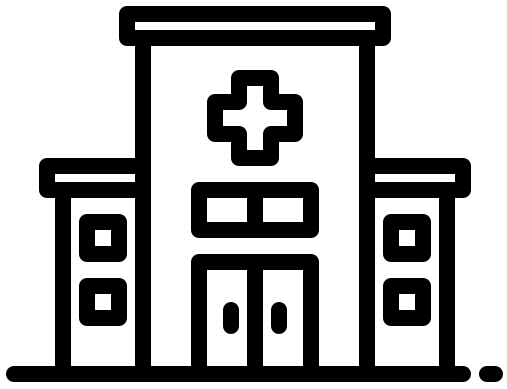
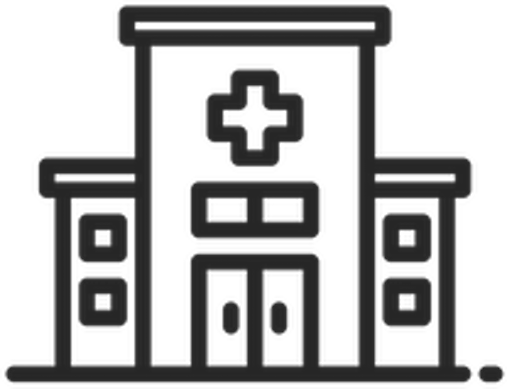
메인창 block1 제외 프앤 마무리, schedule창 블록들 구성 및 blck2 디자인

diff --git a/src/components/Home.css b/src/components/Home.css
@@ -1,11 +1,11 @@
 
-h1 {
+#homeh1 {
     text-align: left;
     margin-left: 120px;
     margin-top: 10px;
 }
 
-main {
+.homemain {
     display: flex;
     flex-direction: row;
     //column-count: 4;
@@ -31,7 +31,7 @@ main {
 .para3 {
 }
 
-section {
+.block1, .block2, .block3, .block4 {
     box-shadow: 5px 6px 6px rgba(0, 0, 0, 0.1);
     border-radius: 25px;
     width: 350px;
@@ -46,7 +46,7 @@ section:hover {
 
 
 .block1 {
-    background-color: #F2F9F6;
+    background-color: #D9F4E7;
     height:95%;
 }
 #usrImg {
@@ -57,44 +57,59 @@ section:hover {
 
 
 .block2 {
-    background-color: purple;
+    background-image: url('greentopurple.jpg');
+    background-size: cover;
     height: 46%;
     margin-bottom: 20px;
 }
-
+#block2h {
+    text-align: left;
+    font-size: 66px;
+    padding: 25px 20px 0px;
+    margin: 0px;
+    //color: #F7F7F7;
+    color: #2E2E2E;
+    font-family: serif;
+    font-weight: 800;
+}
 
 
 .block3 {
-    background: radial-gradient(#6E7270, #AEB4B2);
+    //background: radial-gradient(#AEB4B2, #C89AE4); 
+    background-image: linear-gradient(145deg, #D794FF, #E1E1E1, #8FFFBD);
     height: 46%;
 }
 #b3txt {
     padding: 20px 0px 0px;
     font-size: 40px;
-    font-weight: 600;
+    font-weight: 700;
     color: #303332;
     font-family: cursive;
 }
 #hosPic {
     margin-top: 5px;
+    opacity: 0.85;
 }
 
 
 
 .block4 {
-    background-color: white;
+    background-color: #D9F4E7;
     height: 95%;
     border: 0.5px solid #E1E1E1;
 }
-h2 {
+
+#homeh2 {
     font-size: 30px;
     text-align: left;
     padding: 25px 25px 5px;
     margin-top: 0px;
 }
-fieldset {
+
+.homefs {
     height: 320px;
-    font-size:25px;
+    font-size:24px;
+    font-weight: 500;
     display: flex;
     flex-direction: column;
     overflow: auto;
@@ -104,15 +119,15 @@ fieldset {
 #option {
     margin: 0px 0px;
     width: 90%;
-    padding: 0px 5px 30px;
+    padding: 0px 5px 36px;
     text-align:left;
     //background-color: purple;
 }
 
 input[type='checkbox'] {
-    width: 17px;
-    height: 17px;
-    accent-color: lightgreen;
+    width: 20px;
+    height: 20px;
+    accent-color: #70C3A7;
     margin-right: 15px;
 }
 
@@ -132,9 +147,10 @@ input[type='checkbox'] {
     height: 45px;
     width: 160px;
     border-radius: 15px;
-    border-width: 0px;
+    border-width: 0.1px;
     border-color: grey;
     background-color: #70C3A7;
     font-size: 20px;
+    font-weight: 700;
     margin: 15px 0px 5px;
 }

diff --git a/src/components/Schedule.css b/src/components/Schedule.css
@@ -1,0 +1,95 @@
+#schh1 {
+    text-align: left;
+    margin-left: 120px;
+    margin-top: 10px;
+}
+
+.schmain {
+    display: flex;
+    flex-direction: row;
+    //column-count: 3;
+    height: 640px;
+}
+.par0 {
+    width: 120px;
+}
+.par1, .par2 {
+    padding-top: 10px;
+}
+.par1 {
+    width: 65%;
+}
+.par2 {
+    width: 35%;
+    margin-right: 50px;
+}
+.blck1, .blck2 {
+    box-shadow: 5px 6px 6px rgba(0, 0, 0, 0.1);
+    border-radius: 25px;
+    width: 90%;
+    height: 90%;
+    margin: 0px auto; /*para 내에서 중앙정렬*/
+    transition: all 0.3s ease-out;
+    background-color: #D9F4E7;
+}
+
+.blck2 {
+    position: relative;
+    background-color: #D9F4E7;
+}
+
+.blck2::before {
+    content: "";
+    position: absolute;
+    top: -18px;
+    left: -10px;
+    right: 0px;
+    bottom: 0px;
+    opacity: 0.1;
+    background-image: url('hospital2_icon.png');
+    background-repeat: repeat;
+    border-radius: 35px;
+}
+
+
+#schh2 {
+    font-size: 30px;
+    text-align: center;
+    padding: 25px 25px 0px;
+    margin-top: 0px;
+    position: relative;
+}
+
+.schsec1 {
+    height: 50%;
+    width: 80%;
+    margin: -5px auto;
+    margin-bottom: 20px;
+    background-color: #F3FFF9;
+    border-radius: 25px;
+    border-width: 0.5px;
+    position: relative
+}
+
+.schsec2 {
+    height: 13%;
+    width: 80%;
+    margin: 0px auto;
+    background-color: #F3FFF9;
+    border-radius: 25px;
+    border-width: 0.5px;
+    position: relative
+}
+
+#schsavebtn { 
+    height: 45px;
+    width: 160px;
+    border-radius: 17px;
+    border-width: 0.1px;
+    border-color: grey;
+    background-color: #70C3A7;
+    font-size: 20px;
+    font-weight: 700;
+    margin: 15px 0px 5px;
+    position: relative
+}

diff --git a/src/components/Home.js b/src/components/Home.js
@@ -5,9 +5,9 @@ const Home = () => {
   return (
     <>
         <div>
-          <h1>00님, 어서오세요.</h1>
+          <h1 id='homeh1'>00님, 어서오세요.</h1>
         </div>
-        <main>
+        <main className='homemain'>
             <div className='para0'>
                 <p> </p>
             </div>
@@ -20,7 +20,7 @@ const Home = () => {
             </div>
             <div className='para2'>
                 <section className='block2'>
-                    <p>news</p>
+                    <h3 id='block2h'>Health<br/>Care<br/>News +</h3>
                 </section>
                 <section className='block3'>
                     <p id='b3txt'>병원 찾기<img id='hosPic' src='images/hospital_icon.png' alt='pic of hospital icon'/></p>
@@ -28,8 +28,8 @@ const Home = () => {
             </div>
             <div className='para3'>
                 <section className='block4'>
-                    <h2>오늘 어떤 약💊을<br/>복용하셨습니까?</h2>
-                    <fieldset>
+                    <h2 id='homeh2'>오늘 어떤 약💊을<br/>복용하셨습니까?</h2>
+                    <fieldset className='homefs'>
                         <div id='option'>
                             <input type='checkbox' id='med1' name='복용약 종류' value='1번 약(입력되는 값?)' />
                             <label for='med1'>약1</label>

diff --git a/src/components/Schedule.js b/src/components/Schedule.js
@@ -1,11 +1,39 @@
 import React from 'react';
+import './Schedule.css'
 
 const Schedule = () => {
   return (
-    <div>
-      <h1>Schedule</h1>
-      <p>진단 기록 및 약 복용 기록</p>
-    </div>
+    <>
+      <div>
+        <h1 id='schh1'>Schedule 진단 기록 및 약 복용 기록</h1>
+      </div>
+      <main className='schmain'>
+        <div className='par0'>
+          <p> </p>
+        </div>
+        <div className='par1'>
+          <section className='blck1'>
+            <h2 id='schh2'> </h2>
+            <img src='images/sampleimage_cal.avif' alt='달력샘플이미지'/>
+          </section>
+        </div>
+        <div className='par2'>
+          <section className='blck2'>
+            <h2 id='schh2'>진료 기록</h2>
+            <fieldset className='schsec1'>
+              <label>
+                병원명
+              </label>
+            </fieldset>
+            <fieldset className='schsec2'>
+              <label></label>
+            </fieldset>
+            <button id="schsavebtn">저장하기</button>
+
+          </section>
+        </div>
+      </main>
+    </>
   );
 };
 

diff --git a/src/components/Menubar.css b/src/components/Menubar.css
@@ -4,7 +4,6 @@
     align-items: flex-start;
     padding: 20px 5px;
     color: #101010;
-    background-color: grey;
     width: 80px; /* 메뉴바의 너비 */
     position: fixed; /* 화면의 좌측에 고정 */
     margin-left: 10px;
@@ -15,7 +14,8 @@
   }
   
   .menubar-menu {
-    background-color: #E4F6D6;
+    //background-color: #E4F6D6;
+    background-image: url('greentopurple.jpg');
     list-style: none;
     display: center;
     text-align: center;
@@ -45,7 +45,7 @@
   }
   
   .menubar-menu li:hover {
-    background-color: #C3D6B5;
+    background-color: #DFC1F1;
     border-radius: 50%;
     //filter: invert(100%);
     //color: #E4F6D6;
